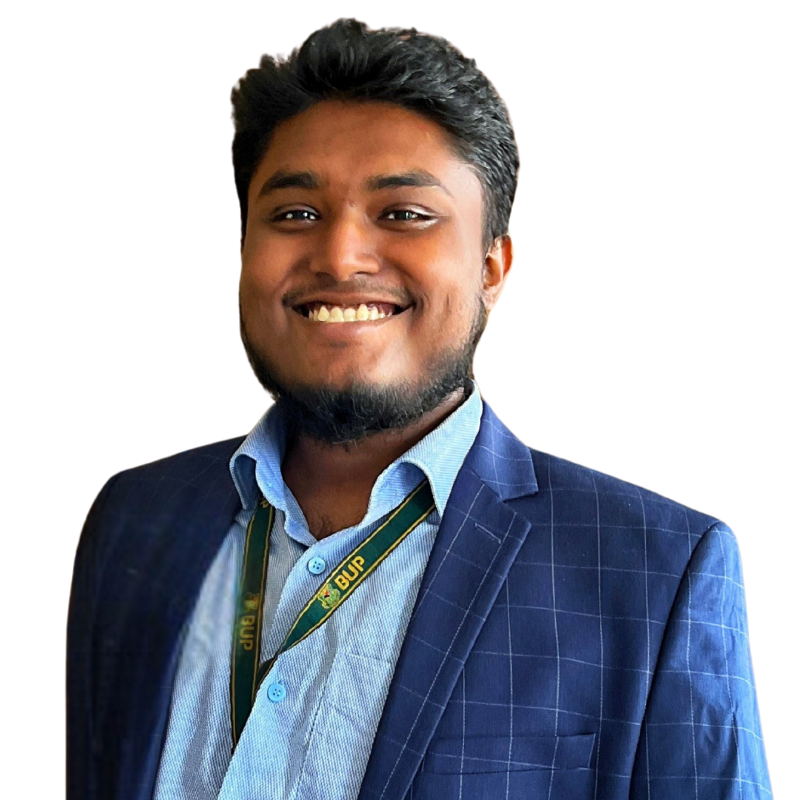
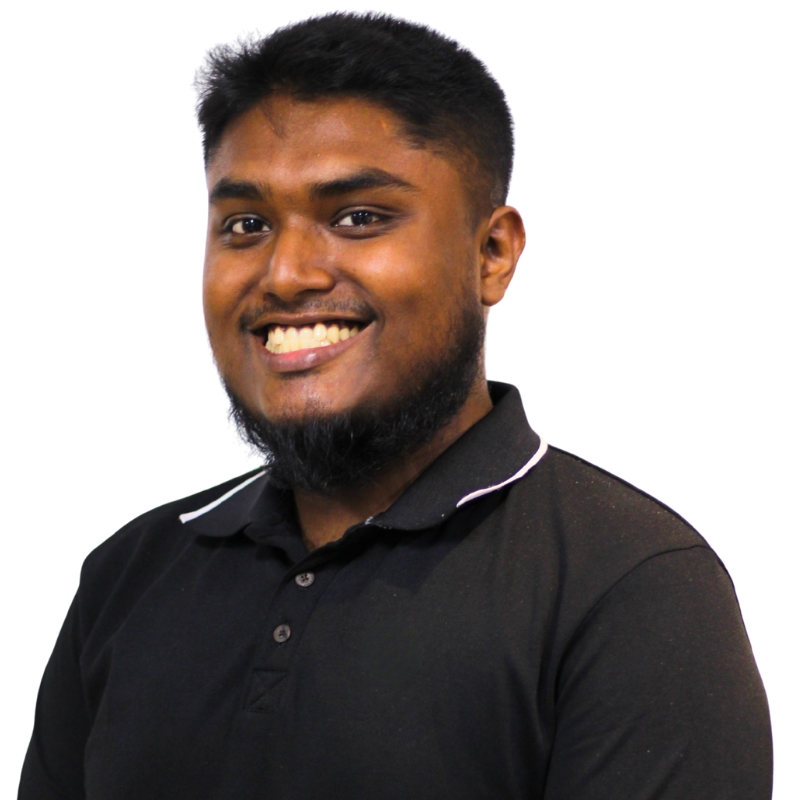
Hero image replaced

diff --git a/app/components/HeroSection.tsx b/app/components/HeroSection.tsx
@@ -88,7 +88,7 @@ export default function HeroSection() {
           />
           
           <Image
-            src="/Shahoriar_hero.png"
+            src="/shahoriar_hero.png"
             alt="Md Al Shahoriar Hossain portrait"
             fill
             className="object-cover relative z-10"
@@ -180,7 +180,7 @@ export default function HeroSection() {
           />
           
           <Image
-            src="/Shahoriar_hero.png"
+            src="/shahoriar_hero.png"
             alt="Md Al Shahoriar Hossain portrait"
             fill
             className="object-cover relative z-10"